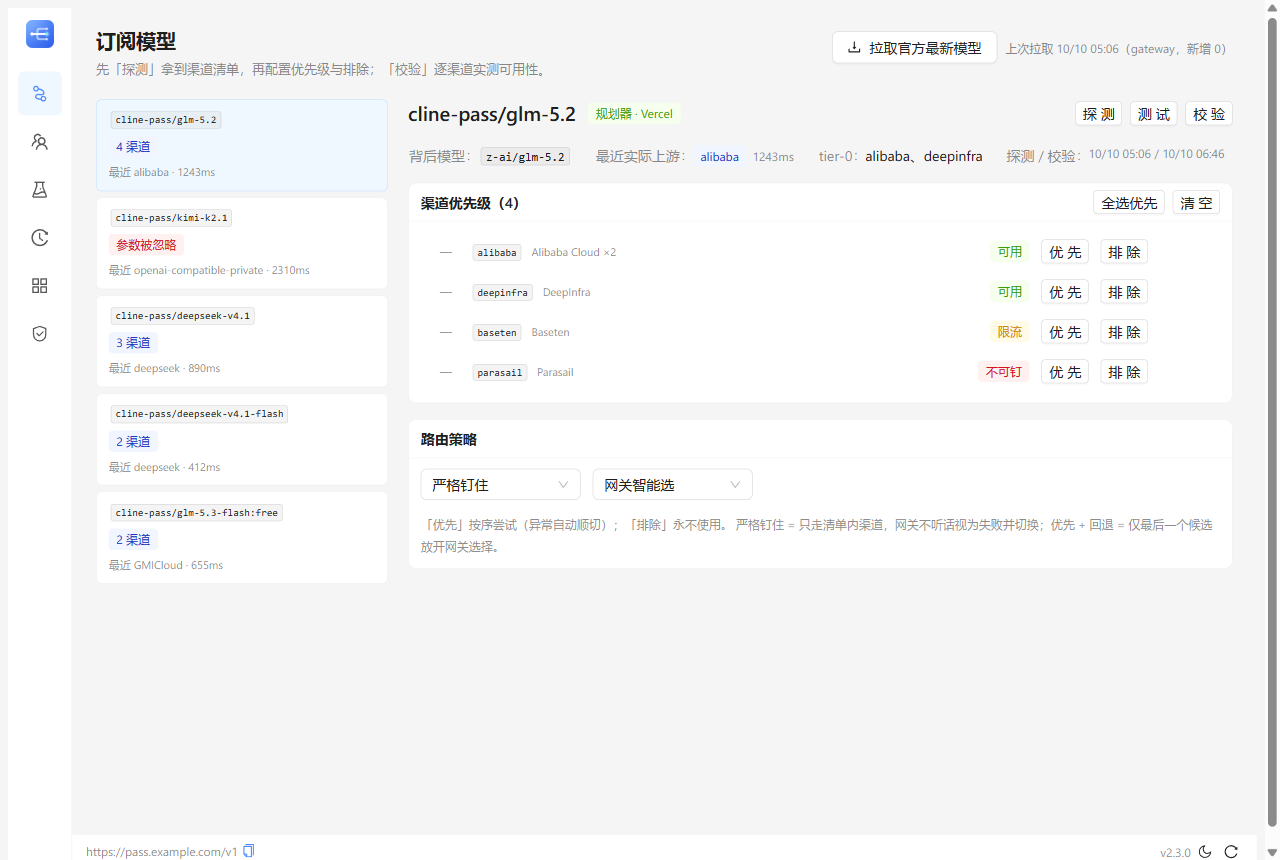
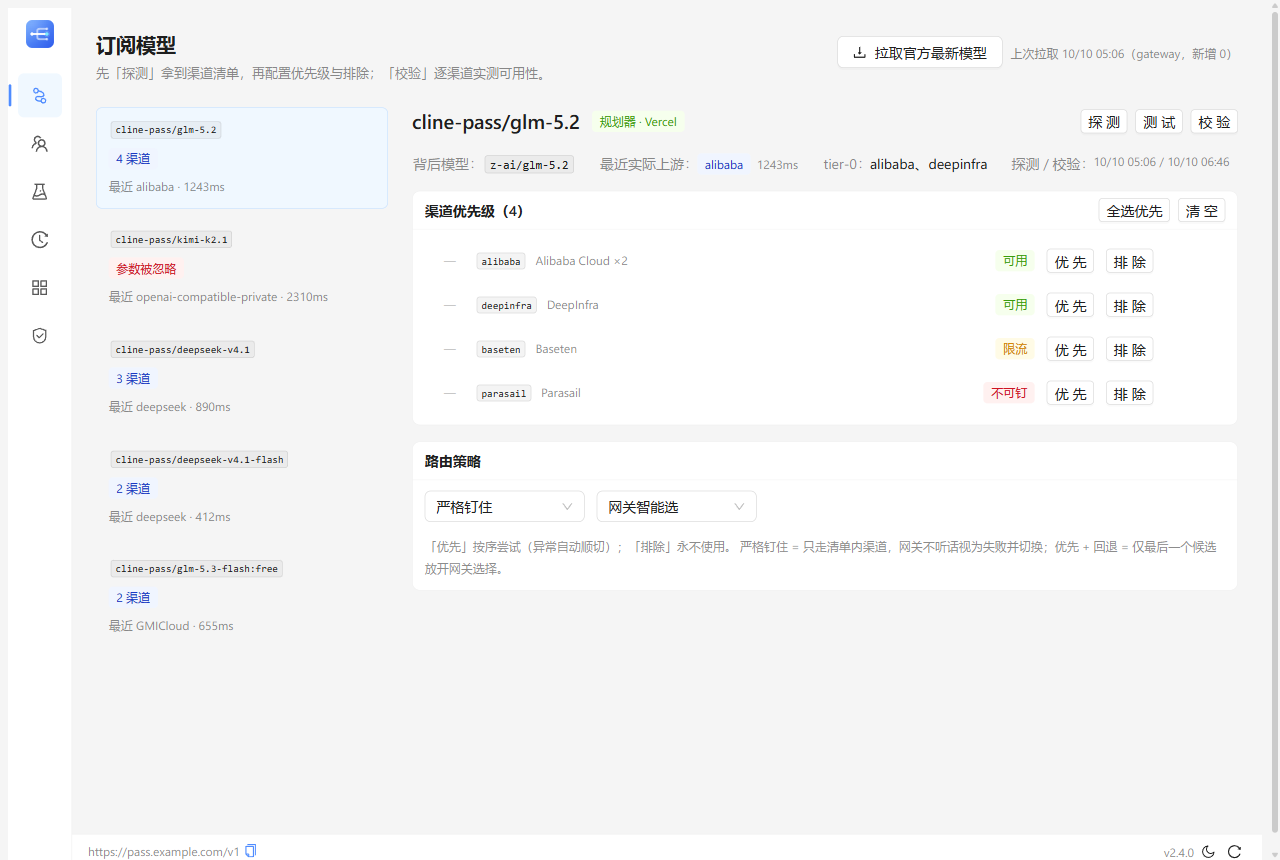
chore: 发版 2.5.0
版本号统一 2.5.0；CHANGELOG 记录细节与统一度收口；README 截图换新。

diff --git a/CHANGELOG.md b/CHANGELOG.md
@@ -1,5 +1,24 @@
 # Changelog
 
+## 2.5.0（2026-10-11）
+
+### 变更
+
+**细节与统一度系统化收口**（按「设计体系」而非逐处微调解决）：
+
+- **间距/字号刻度归位**：全站间距收敛到 4 的刻度（清除 5/6/7/14/20 等随手值）；
+  字号收敛为四层角色——20 页标题 / 14 正文与控件 / 13 说明文字 / 12 小注与数据
+  （废除 11px）；页头下间距、区块分隔统一 24
+- **暗色体系**：放弃 antd 默认纯黑布局底，改为三层（布局底 #0e0f12 / 容器面 #16181d /
+  弹层 #1e2026）+ 极淡描边，层次靠亮度差而非边框
+- **「浏览器表面」主题化**（新增 `web/src/app.css`，走 antd 6 默认注入的 CSS 变量）：
+  细滚动条、文本选中色、焦点环、原生列表项悬停——这些默认值不属于任何设计系统
+- **交互态补齐**：模型列表项改「幽灵项」（默认安静、悬停浮现、选中唯一有面，
+  主从层级正确）；渠道行悬停浅底；侧栏选中项左缘指示条
+- **状态完备**：四个数据页补骨架屏（首次加载）、错误态（含重试）、统一简化空态
+- **对齐细节**：历史页耗时列右对齐 + tabular 数字；模型列宽修正防换行；
+  窄内容页（账号/安全/测试台）页头与内容整体居中于宽窗口
+
 ## 2.4.0（2026-10-10）
 
 ### 变更
